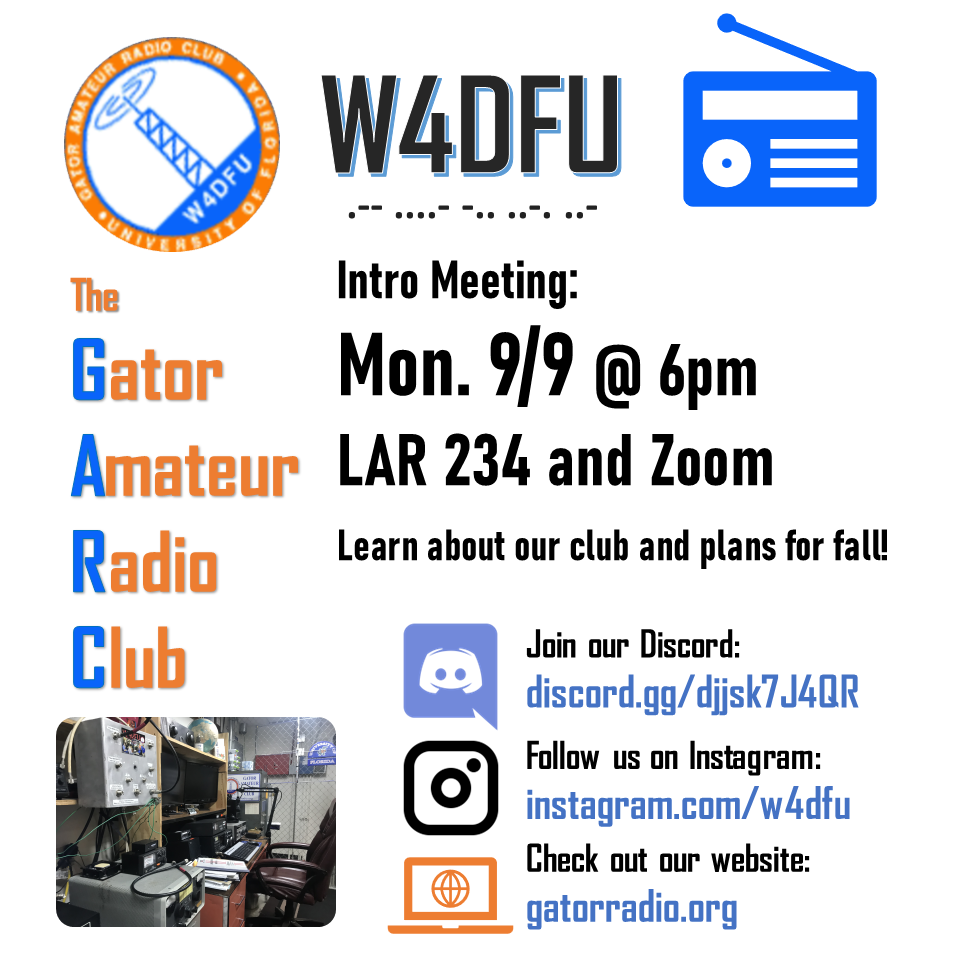
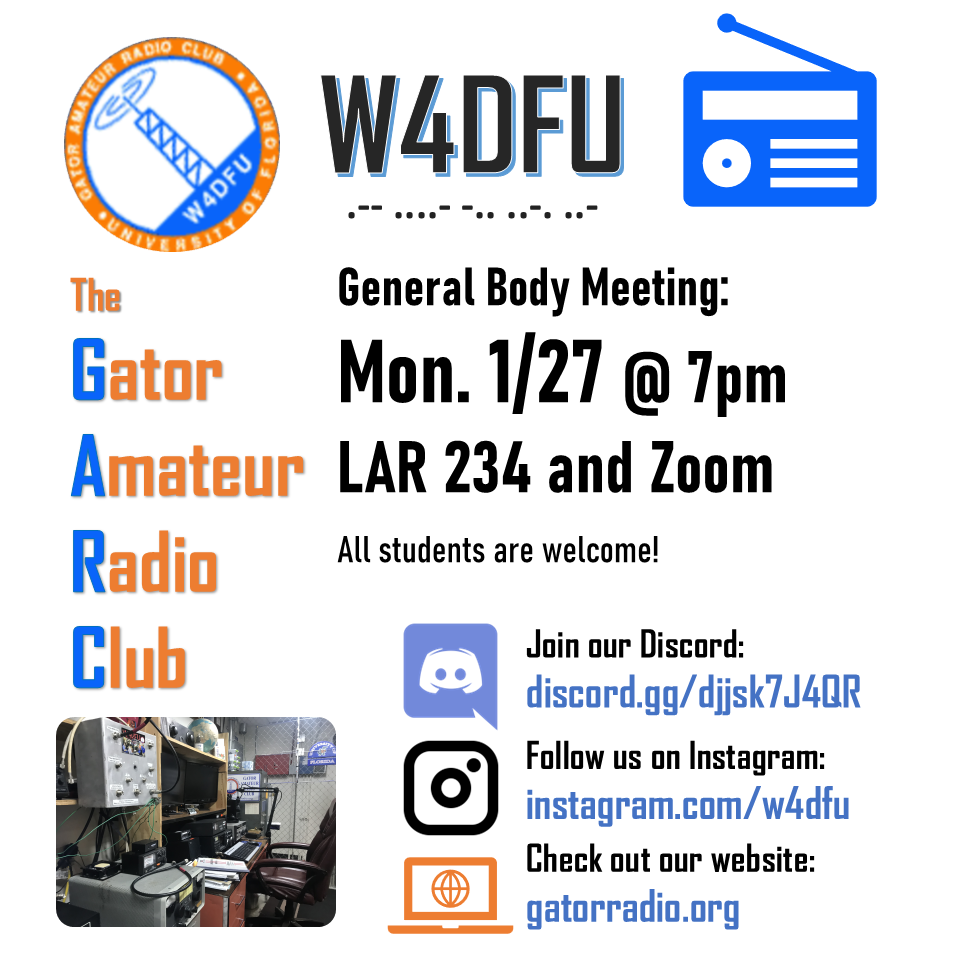
Update new meeting

diff --git a/upcoming-meeting.html b/upcoming-meeting.html
@@ -38,17 +38,17 @@
 
     <!-- Navbar -->
     <nav class="navbar navbar-expand-lg navbar-light bg-light">
-        <a class="navbar-brand" href="#">Gator Amateur Radio Club</a>
+        <a class="navbar-brand" style="font-weight: bold;" href="#">Gator Amateur Radio Club</a>
         <button class="navbar-toggler" type="button" data-toggle="collapse" data-target="#navbarNav" aria-controls="navbarNav" aria-expanded="false" aria-label="Toggle navigation">
             <span class="navbar-toggler-icon"></span>
         </button>
-        <div class="collapse navbar-collapse" id="navbarNav">
+        <div class="collapse navbar-collapse" style="font-weight: bold;" id="navbarNav">
             <ul class="navbar-nav">
                 <li class="nav-item active">
                     <a class="nav-link" href="index.html">Home</a>
                 </li>
                 <li class="nav-item">
-                    <a class="nav-link" href="index.html">About Us</a>
+                    <a class="nav-link" href="about.html">About Us</a>
                 </li>
                 <li class="nav-item">
                     <a class="nav-link" href="mailto:leaders@gatorradio.org">Contact</a>
@@ -60,10 +60,9 @@
     <!-- Main Content -->
     <div class="container">
         <h1>Upcoming GARC Meeting:</h1>
-        <p>Date: Monday, Sept. 9th</p>
-        <p>Time: 6:00 - 7:00 pm</p>
-        <p>Location: LAR 234 and on <a href="https://ufl.zoom.us/j/91623745706">Zoom</a></p>
-        <p>Discussion: Introduction to the club, planning activities for Fall 2024, ham radio and careers</p>
+        <p>Date: Monday, Jan. 27th</p>
+        <p>Time: 7:00 - 8:00 pm</p>
+        <p>Location: LAR 234 and on <a href="https://ufl.zoom.us/j/96858532132?pwd=GmEg7QfEt4c9bKRYaPALoPrWBqH9wE.1">Zoom</a></p>
         <img src="W4DFU Announcement.png">
     </div>
 

diff --git a/index.html b/index.html
@@ -33,11 +33,9 @@
 <body>
 
     <!-- Banner -->
-    <!--
     <div class="banner">
-        <strong>Announcement:</strong> Join us this Saturday for our monthly meeting! Check <a href="upcoming-meeting.html">here</a> details.
+        <strong>Announcement:</strong> Join us this Monday, Jan. 27th for our monthly meeting! Check <a href="upcoming-meeting.html">here</a> details.
     </div>
-    -->
 
     <!-- Navbar -->
     <nav class="navbar navbar-expand-lg navbar-light bg-light">
@@ -189,6 +187,17 @@
                                             <li>UF NATL Pavilion</li>
                                             <li>HF operating fun!</li>
                                             <li>All are welcome!</li>
+                                        </ul>
+                                    </td>
+                                </tr>
+                                <tr>
+                                    <th scope="row">January Meeting</th>
+                                    <td>
+                                        <ul>
+                                            <li>Mon. Jan. 27th at 7 pm</li>
+                                            <li>LAR 234 & Zoom</li>
+                                            <li><a href="https://ufl.zoom.us/j/96858532132?pwd=GmEg7QfEt4c9bKRYaPALoPrWBqH9wE.1">Zoom link</a></li>
+                                            <li>Topics: WFD Recap, Intro to Ham Radio, Project Statuses</li>
                                         </ul>
                                     </td>
                                 </tr>

diff --git a/about.html b/about.html
@@ -33,17 +33,17 @@
 
     <!-- Navbar -->
     <nav class="navbar navbar-expand-lg navbar-light bg-light">
-        <a class="navbar-brand" href="#">Gator Amateur Radio Club</a>
+        <a class="navbar-brand" style="font-weight: bold;" href="#">Gator Amateur Radio Club</a>
         <button class="navbar-toggler" type="button" data-toggle="collapse" data-target="#navbarNav" aria-controls="navbarNav" aria-expanded="false" aria-label="Toggle navigation">
             <span class="navbar-toggler-icon"></span>
         </button>
-        <div class="collapse navbar-collapse" id="navbarNav">
+        <div class="collapse navbar-collapse" style="font-weight: bold;" id="navbarNav">
             <ul class="navbar-nav">
                 <li class="nav-item active">
                     <a class="nav-link" href="index.html">Home</a>
                 </li>
                 <li class="nav-item">
-                    <a class="nav-link" href="index.html">About Us</a>
+                    <a class="nav-link" href="about.html">About Us</a>
                 </li>
                 <li class="nav-item">
                     <a class="nav-link" href="mailto:leaders@gatorradio.org">Contact</a>
